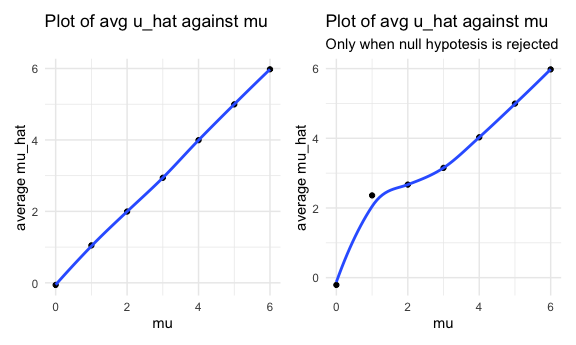
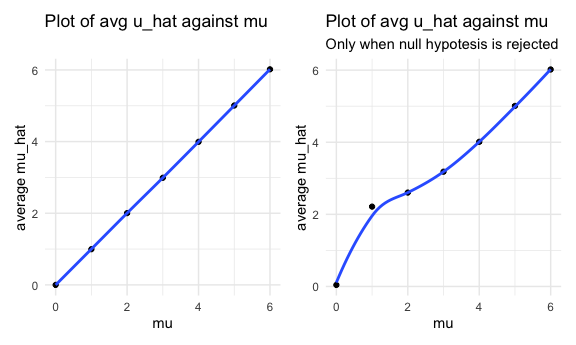
Tried running with the 5000 iterations; seemed like it worked

diff --git a/p8105_hw5_sdc2157.md b/p8105_hw5_sdc2157.md
@@ -380,7 +380,7 @@ simul_df <-
   expand_grid(
     sample_size = 30,
     true_mean_u = 0:6,
-    iter = 1:500
+    iter = 1:5000
   ) |> 
   mutate(simul_dataset = map2(sample_size, true_mean_u, \(sa, tmu) rnorm(n = sa, mean = tmu, sd = 5)))
 
